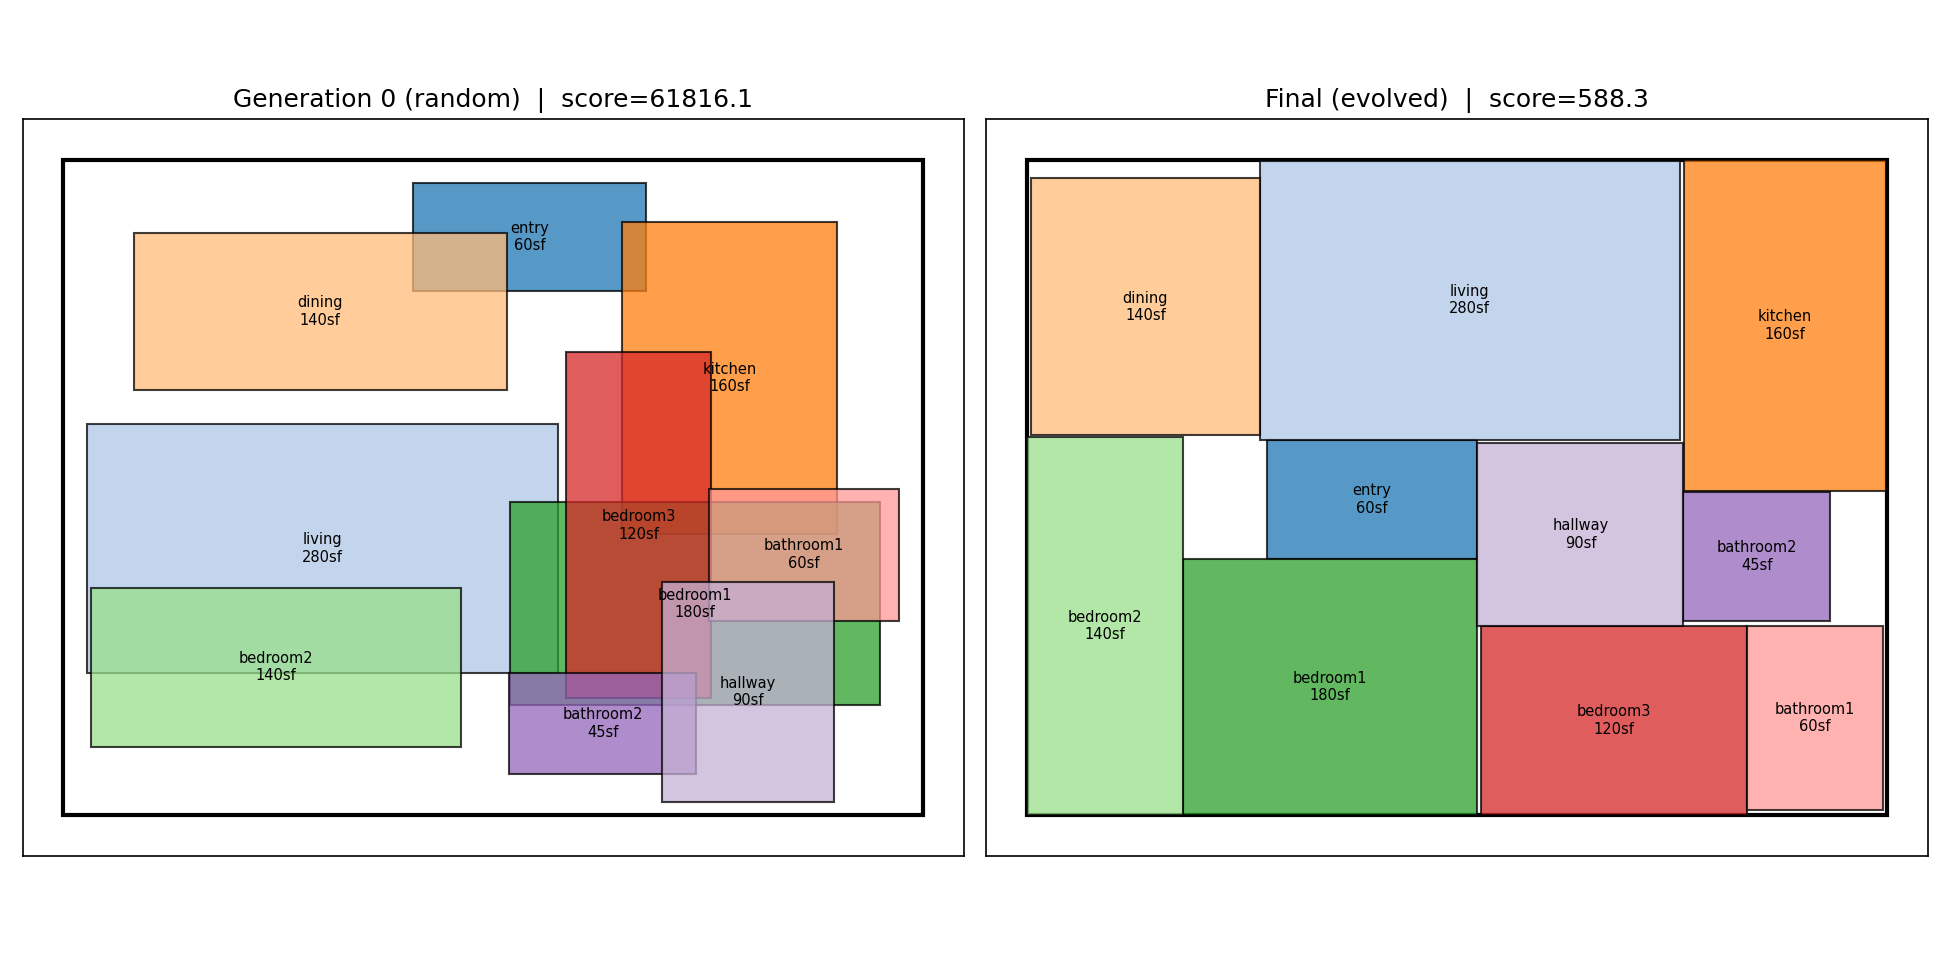
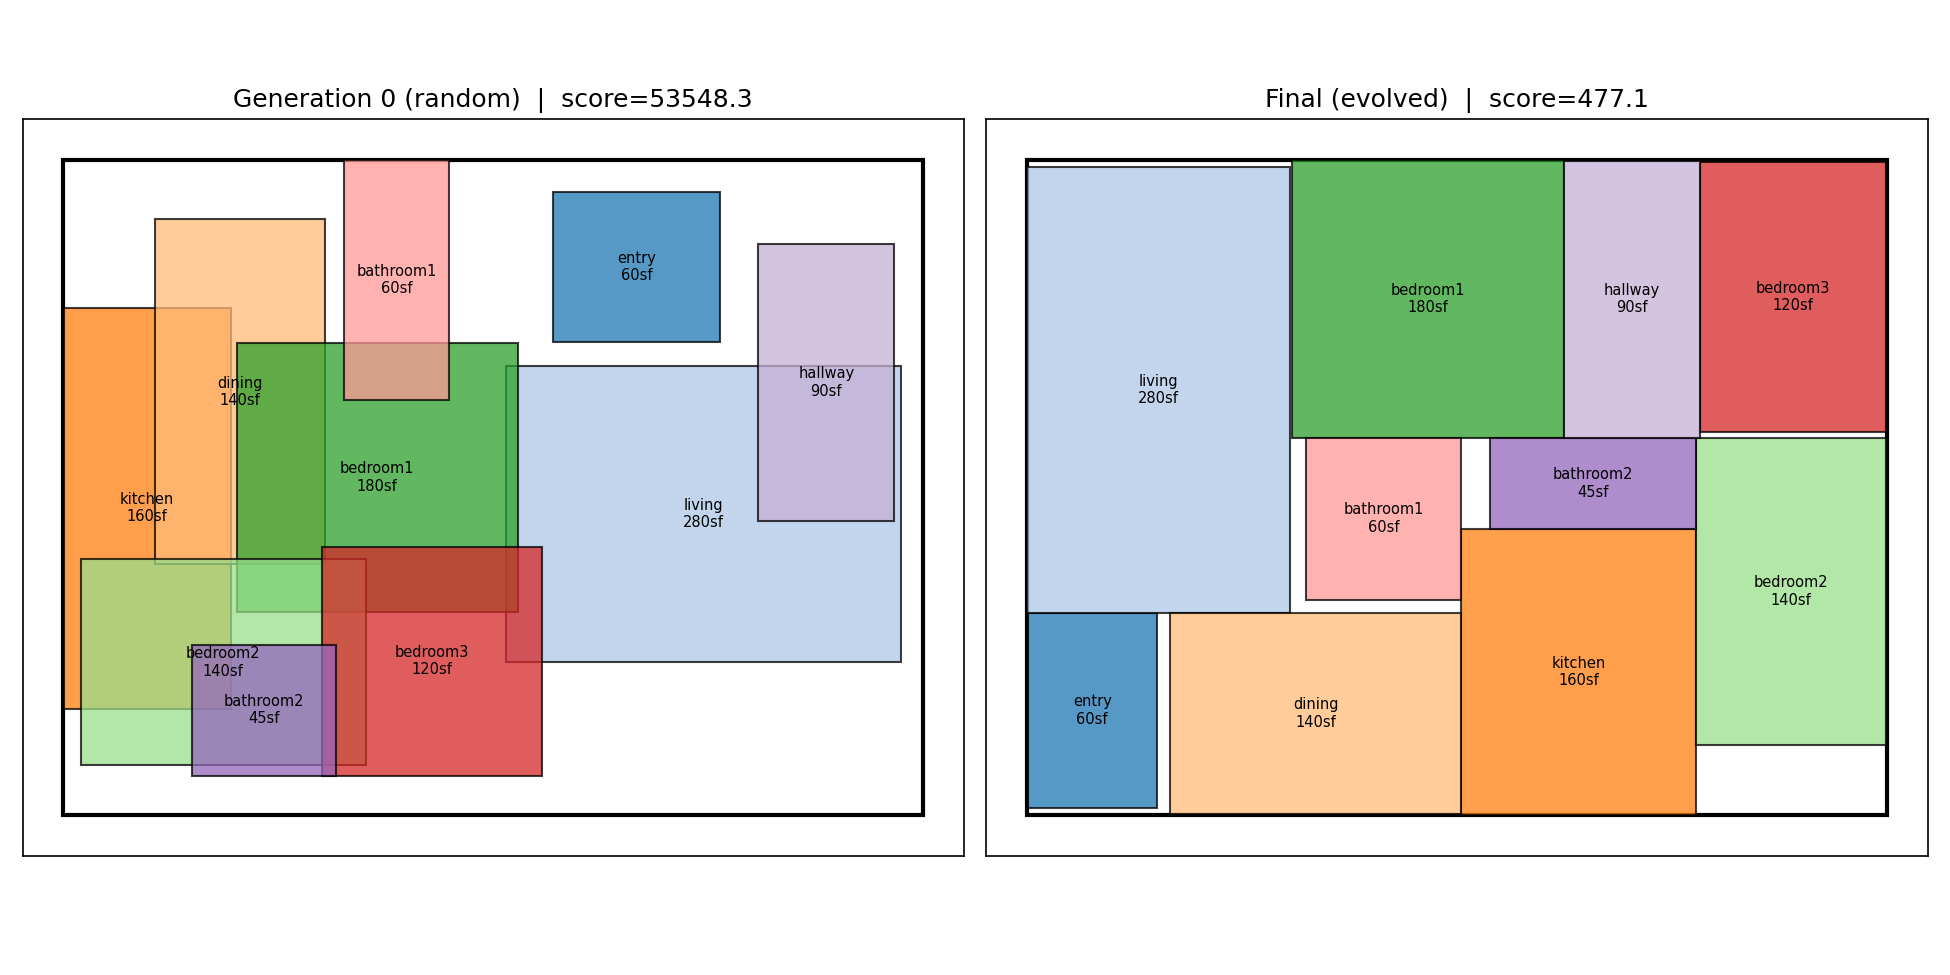
Add files via upload

diff --git a/main.py b/main.py
@@ -5,16 +5,21 @@ Run the generative floor plan optimizer end-to-end:
   3. print an itemized fitness breakdown for best gen-0 vs best final
   4. save before/after layout image + convergence plot
 """
+import os
+
 from floorplan import ga
 from floorplan.fitness import evaluate, score_breakdown
 from floorplan.visualize import plot_before_after, plot_convergence
+
+# Seed can be overridden via env var (used by the regenerate-figures workflow).
+SEED = int(os.environ.get("FLOORPLAN_SEED", "42"))
 
 
 def main():
     best_gen0, best_final, logbook = ga.run(
         pop_size=300,
         n_generations=400,
-        seed=42,
+        seed=SEED,
     )
 
     score0 = evaluate(best_gen0)[0]